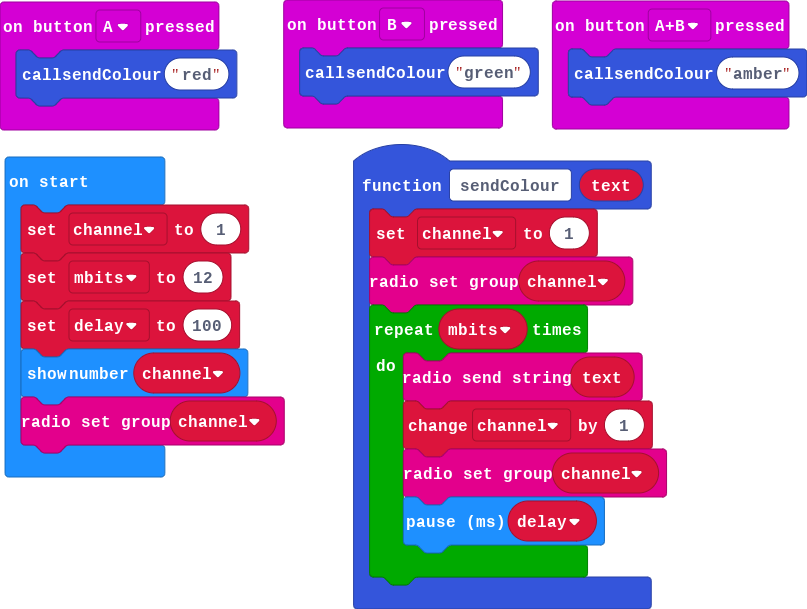
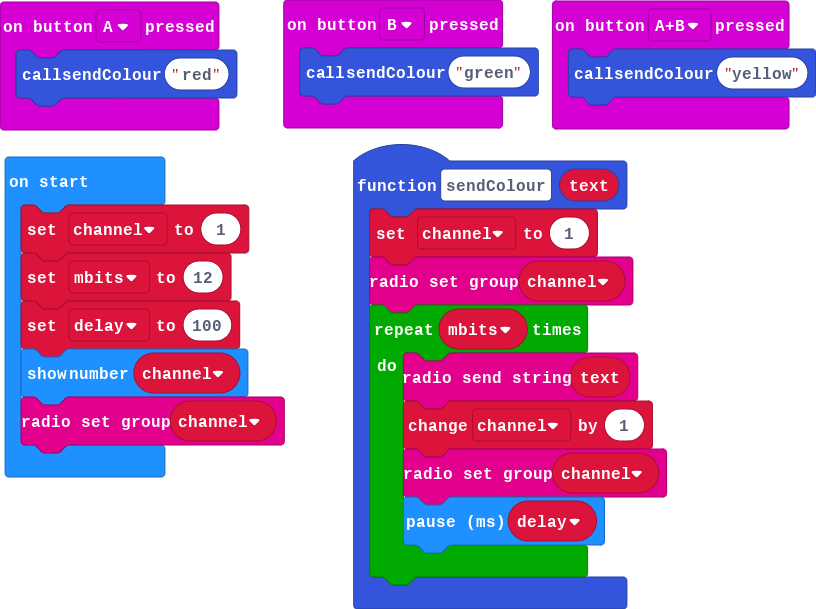
Update pxt.json, main.blocks, main.ts

diff --git a/main.ts b/main.ts
@@ -9,7 +9,7 @@ function sendColour (text: string) {
     }
 }
 input.onButtonPressed(Button.AB, function () {
-    sendColour("amber")
+    sendColour("yellow")
 })
 input.onButtonPressed(Button.B, function () {
     sendColour("green")
